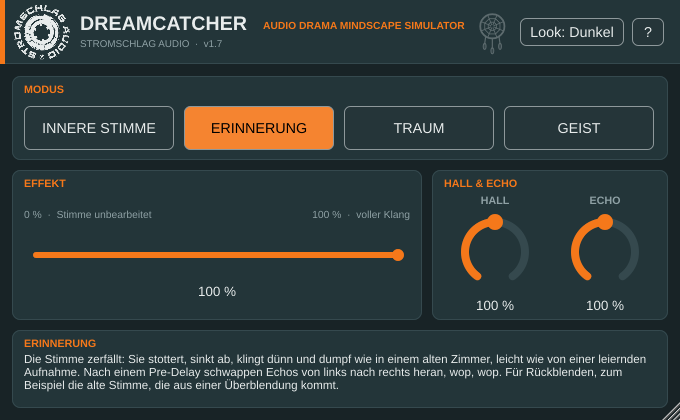
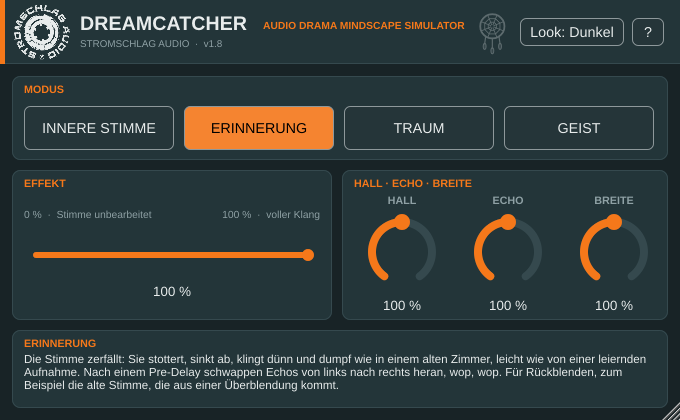
v1.8: dritter Drehregler Breite (Stereobreite 0–200 %)
- 0 % = mono, 100 % = wie der Modus abgestimmt ist, 200 % = doppelte Seite plus
  minimal verzögerte Seite (Prinzip von Airwindows Wider), breiter als die Lautsprecher
- unbearbeitete Stimme am Effekt-Fader bleibt unberührt; Lautheit bei 100 % unverändert
- Oberfläche mit drei Drehreglern, Hilfe, README und Info-Seite aktualisiert

Claude-Session: https://claude.ai/code/session_01N8U6GAcgjakis5mRQaEKjq

diff --git a/docs/index.html b/docs/index.html
@@ -61,7 +61,7 @@
   bis zum vollen Effekt, auch über die Zeit per Automation.</p>
 
   <a class="btn" id="dl" href="https://github.com/StromschlagProductions/Dreamcatcher-vst/releases/latest">⬇ Download (Windows, VST3)</a>
-  <div class="meta" id="ver">Aktuelle Version: <span id="vnum">1.7</span> · Installation: ZIP entpacken, den ganzen Ordner <code>Dreamcatcher.vst3</code> nach <code>C:\Program Files\Common Files\VST3</code> kopieren.</div>
+  <div class="meta" id="ver">Aktuelle Version: <span id="vnum">1.8</span> · Installation: ZIP entpacken, den ganzen Ordner <code>Dreamcatcher.vst3</code> nach <code>C:\Program Files\Common Files\VST3</code> kopieren.</div>
 
   <h2>Was es kann</h2>
   <ul>
@@ -70,7 +70,7 @@
     <li><strong>Traum:</strong> körnig verstimmt, die Tonhöhe wabert langsam, in einem riesigen, dunklen, schwebenden Hall mit einer Echo-Wolke, deren Wiederholungen schief wegdriften.</li>
     <li><strong>Geist:</strong> echter Reverse-Hall: Vor jedem Wort schwillt ein Geisterhall an und rückwärts gespielte Stücke saugen ins Wort hinein, dann kommt die Stimme, trocken und ohne Nachhall. Dafür meldet das Plugin in diesem Modus rund 0,6 s Latenz an die DAW, die sie ausgleicht. Am besten auf einer eigenen Spur oder Instanz.</li>
     <li><strong>Ein Fader von 0 bis 100 %:</strong> 0 % ist die Stimme unbearbeitet, 100 % der volle Klang des Modus. Per Automation lässt sich der Effekt einblenden oder zurückholen, etwa wenn eine alte Stimme aus einer Überblendung kommt.</li>
-    <li><strong>Hall und Echo zum Nachjustieren:</strong> zwei Drehregler von 0 bis 200 %, 100 % ist der abgestimmte Klang des Modus. Im Modus Geist steuern sie Reverse-Hall und Reverse-Echo.</li>
+    <li><strong>Hall, Echo und Breite zum Nachjustieren:</strong> drei Drehregler von 0 bis 200 %, 100 % ist der abgestimmte Klang des Modus. Im Modus Geist steuern die ersten beiden Reverse-Hall und Reverse-Echo. Breite reicht von mono bis breiter als die Lautsprecher.</li>
     <li><strong>Auch auf einem Bus:</strong> Stimme und Geräusche einer Traum- oder Erinnerungsszene bekommen gemeinsam dieselbe Behandlung und klingen wie aus einer Welt.</li>
     <li><strong>Fest abgestimmt:</strong> feste Modi, kein Ausgangsregler, keine eigenen Geräusche. Das Plugin verändert nur den Klang der Stimme; Latenz gibt es nur im Modus Geist.</li>
     <li><strong>Vergrößerbare Oberfläche</strong> von 50 % bis 300 %, hell und dunkel, mit Hilfe im Plugin.</li>

diff --git a/Source/PluginEditor.cpp b/Source/PluginEditor.cpp
@@ -57,7 +57,7 @@ static juce::AttributedString buildHelp (juce::Colour text, juce::Colour accent,
               juce::Font (juce::FontOptions (17.0f, juce::Font::bold)), accent);
 
     body ("Dreamcatcher ist ein Insert-Effekt für Stimmen, die nicht im Raum der Szene sprechen: innere Stimme, Erinnerung und Traum. "
-          "Der Klang jedes Modus ist fest abgestimmt. Bedient wird es mit dem Modus, dem Effekt-Fader und zwei Drehreglern, mit denen du Hall und Echo des Modus anpasst.");
+          "Der Klang jedes Modus ist fest abgestimmt. Bedient wird es mit dem Modus, dem Effekt-Fader und drei Drehreglern, mit denen du Hall, Echo und Stereobreite des Modus anpasst.");
 
     head ("MODUS");
     body ("Innere Stimme: Die Stimme rückt ins Innere des Kopfes. Schmal und nah, ein winziger, enger Raum, ein Hauch Echo, Höhen weicher, Tiefen weg.");
@@ -75,6 +75,12 @@ static juce::AttributedString buildHelp (juce::Colour text, juce::Colour accent,
     body ("Im Modus Geist heißen die Regler Reverse-Hall und Reverse-Echo: Damit wählst du, ob nur der rückwärts anschwellende Hall, nur die "
           "rückwärts gespielten Echos oder beides vor der Stimme liegen.");
     note ("Mehr Hall oder Echo macht den Klang lauter, weniger leiser; der Pegelausgleich gilt für die Einstellung 100 %.");
+
+    head ("BREITE (Drehregler, 0–200 %)");
+    body ("Die Stereobreite des Effekts: 0 % = mono, 100 % = so breit, wie der Modus abgestimmt ist, 200 % = deutlich breiter. Über 100 % wird "
+          "das Seitensignal zusätzlich minimal verzögert (nach dem Prinzip von Airwindows Wider), dann wirkt der Klang breiter als die Lautsprecher. "
+          "Die unbearbeitete Stimme (Effekt-Fader auf 0 %) bleibt davon unberührt.");
+    note ("Sehr breite Einstellungen klingen in Mono dünner. Wenn die Produktion auch in Mono funktionieren muss, kurz in Mono gegenhören.");
 
     head ("EFFEKT (Fader, 0–100 %)");
     body ("0 % = die Stimme unbearbeitet, 100 % = der volle Klang des gewählten Modus. Dazwischen blendet der Fader fließend über. "
@@ -133,6 +139,9 @@ DreamcatcherEditor::DreamcatcherEditor (DreamcatcherProcessor& p) : AudioProcess
 
     setupKnob (hallKnob, "hall");
     setupKnob (echoKnob, "echo");
+    setupKnob (widthKnob, "width");
+    widthKnob.label.setText (u8 ("BREITE"), juce::dontSendNotification);
+    widthKnob.slider.setTooltip (u8 ("Stereobreite: 0 % = mono, 100 % = wie der Modus abgestimmt ist, 200 % = breiter als die Lautsprecher. Doppelklick: 100 %"));
 
     themeButton.onClick = [this]
     {
@@ -241,7 +250,7 @@ void DreamcatcherEditor::applyTheme()
     look.setColour (juce::PopupMenu::highlightedBackgroundColourId, theme.accent);
     look.setColour (juce::PopupMenu::highlightedTextColourId, juce::Colours::black);
     look.setColour (juce::Label::textColourId, theme.text);
-    for (auto* k : { &hallKnob, &echoKnob }) k->label.setColour (juce::Label::textColourId, theme.dim);
+    for (auto* k : { &hallKnob, &echoKnob, &widthKnob }) k->label.setColour (juce::Label::textColourId, theme.dim);
     look.setColour (juce::TextButton::buttonColourId, theme.dark ? theme.panel : theme.bg);
     look.setColour (juce::TextButton::buttonOnColourId, theme.accent);
     look.setColour (juce::TextButton::textColourOffId, theme.text);
@@ -352,13 +361,13 @@ void DreamcatcherEditor::paint (juce::Graphics& g)
     // Karte Modus
     card (12.0f, 76.0f, (float) W - 24.0f, 84.0f, "MODUS");
     // Karte Effekt-Fader
-    card (12.0f, 170.0f, 410.0f, 150.0f, "EFFEKT");
+    card (12.0f, 170.0f, 320.0f, 150.0f, "EFFEKT");
     g.setColour (theme.dim);
     g.setFont (juce::FontOptions (11.5f));
-    g.drawText (u8 ("0 %  ·  Stimme unbearbeitet"), 24, 206, 190, 16, juce::Justification::centredLeft);
-    g.drawText (u8 ("100 %  ·  voller Klang"), 410 - 190, 206, 190, 16, juce::Justification::centredRight);
+    g.drawText (u8 ("0 %  ·  Stimme unbearbeitet"), 24, 206, 160, 16, juce::Justification::centredLeft);
+    g.drawText (u8 ("100 %  ·  voller Klang"), 320 - 130, 206, 130, 16, juce::Justification::centredRight);
     // Karte Hall / Echo
-    card (432.0f, 170.0f, (float) W - 444.0f, 150.0f, m == dch::kGhost ? u8 ("REVERSE") : u8 ("HALL & ECHO"));
+    card (342.0f, 170.0f, (float) W - 354.0f, 150.0f, m == dch::kGhost ? u8 ("REVERSE & BREITE") : u8 ("HALL · ECHO · BREITE"));
     // Karte Beschreibung
     card (12.0f, 330.0f, (float) W - 24.0f, 78.0f, modeShort (m));
     g.setColour (theme.text);
@@ -388,11 +397,16 @@ void DreamcatcherEditor::resized()
     for (int i = 0; i < 4; ++i)
         modeButtons[i].setBounds (bx + i * (bw + 10), 106, bw, 44);
 
-    fader.setBounds (24, 228, 386, 72);
-    hallKnob.label.setBounds (440, 192, 110, 16);
-    echoKnob.label.setBounds (550, 192, 110, 16);
-    hallKnob.slider.setBounds (445, 208, 100, 106);
-    echoKnob.slider.setBounds (555, 208, 100, 106);
+    fader.setBounds (24, 228, 296, 72);
+    {
+        Knob* ks[3] = { &hallKnob, &echoKnob, &widthKnob };
+        for (int i = 0; i < 3; ++i)
+        {
+            const int x = 350 + i * 106;
+            ks[i]->label.setBounds (x, 192, 104, 16);
+            ks[i]->slider.setBounds (x + 2, 208, 100, 106);
+        }
+    }
 
     helpScroll.toFront (false);
 }

diff --git a/Source/DreamcatcherDSP.h b/Source/DreamcatcherDSP.h
@@ -792,6 +792,7 @@ public:
         int n = 1; while ((double) n < 3.4 * sr) n <<= 1;
         echoBuf.assign ((size_t) n, 0.0); echoMask = n - 1; echoPos = 0;
         swell.prepare (sr);
+        sideDelay = std::min (60.0, 0.00045 * sr);   // ca. 0,45 ms wie bei Wider (20 Samples bei 44,1 kHz)
         for (int m = 0; m < kNumModes; ++m) room[m].prepare (sr, kRoom[m]);
         ghostDelay = swell.latency();
         for (auto* r : { &dlL, &dlR, &dryL, &dryR }) r->init (ghostDelay);
@@ -814,6 +815,7 @@ public:
         for (auto* r : { &dlL, &dlR, &dryL, &dryR }) r->clear();
         std::fill (revBuf.begin(), revBuf.end(), 0.0); revPos = 0; revPhase = 0; revLpL = revLpR = 0.0;
         ghostRunning = false;
+        std::fill (sideBuf, sideBuf + 64, 0.0); sidePos = 0;
         for (int m = 0; m < kNumModes; ++m) { room[m].reset(); roomRunning[m] = false; }
     }
     void setMode (int m) { mode = std::max (0, std::min (kNumModes - 1, m)); }
@@ -822,10 +824,10 @@ public:
 
     // dream: 0..1 (0 = unbearbeitete Stimme, 1 = voller Klang)
     // hall, echo: 0..2 (1 = so, wie der Modus abgestimmt ist)
-    void process (float* left, float* right, int n, double dream, double hall = 1.0, double echo = 1.0)
+    void process (float* left, float* right, int n, double dream, double hall = 1.0, double echo = 1.0, double width = 1.0)
     {
         const Voicing& v = kVoicing[mode];
-        if (! started) { amount = dream; hallK = hall; echoK = echo; started = true; }
+        if (! started) { amount = dream; hallK = hall; echoK = echo; widthK = width; started = true; }
         const double ghostTarget = mode == kGhost ? 1.0 : 0.0;
         for (int i = 0; i < n; ++i)
         {
@@ -843,6 +845,7 @@ public:
             amount += (dream - amount) * fader;
             hallK += (hall - hallK) * fader;
             echoK += (echo - echoK) * fader;
+            widthK += (width - widthK) * fader;
             ghostAmt += (ghostTarget - ghostAmt) * smooth;
 
             // Echo-Zeiten gehoeren zum Modus: Echos erst ausblenden, dann Zeiten wechseln (kein Pitch-Rutschen)
@@ -979,7 +982,23 @@ public:
                 l += hl; r += hr;
             }
 
-            // 7. Fader: unbearbeitet <-> voller Effekt
+            // 7. Breite (Mitte/Seite): 0 = mono, 1 = wie abgestimmt, 2 = doppelte Seite plus kurz verzoegerte Seite
+            //    (Prinzip aus Airwindows Wider): wirkt breiter als die Lautsprecher
+            {
+                const double mid = 0.5 * (l + r), side = 0.5 * (l - r);
+                sideBuf[(size_t) (sidePos & 63)] = side;
+                double sd = 0.0;
+                if (widthK > 1.0)
+                {
+                    const int i0 = (int) sideDelay; const double fr = sideDelay - i0;
+                    sd = sideBuf[(size_t) ((sidePos - i0) & 63)] * (1.0 - fr) + sideBuf[(size_t) ((sidePos - i0 - 1) & 63)] * fr;
+                }
+                ++sidePos;
+                const double s2 = side * widthK + (widthK > 1.0 ? (widthK - 1.0) * 0.7 * sd : 0.0);
+                l = mid + s2; r = mid - s2;
+            }
+
+            // 8. Fader: unbearbeitet <-> voller Effekt
             l = safe (outDryL * (1.0 - amount) + l * amount);
             r = safe (outDryR * (1.0 - amount) + r * amount);
             left[i] = (float) l;
@@ -1047,6 +1066,8 @@ private:
     int revMask = 0, revPos = 0, revPhase = 0, revLen = 64;
     double revCoef = 0.3, revLpL = 0.0, revLpR = 0.0;
     // Regler Hall / Echo (geglaettet)
-    double hallK = 1.0, echoK = 1.0;
+    double hallK = 1.0, echoK = 1.0, widthK = 1.0;
+    double sideBuf[64] {}, sideDelay = 20.0;
+    int sidePos = 0;
 };
 }  // namespace dch

diff --git a/Source/PluginProcessor.cpp b/Source/PluginProcessor.cpp
@@ -20,6 +20,8 @@ juce::AudioProcessorValueTreeState::ParameterLayout DreamcatcherProcessor::creat
     // Hall und Echo: 100 % = so, wie der Modus abgestimmt ist; 0 % = weg, 200 % = doppelt (im Modus Geist: Reverse-Hall / Reverse-Echo)
     layout.add (std::make_unique<AudioParameterFloat> (ParameterID { "hall", 1 }, "Hall", NormalisableRange<float> (0.0f, 2.0f), 1.0f, percent));
     layout.add (std::make_unique<AudioParameterFloat> (ParameterID { "echo", 1 }, "Echo", NormalisableRange<float> (0.0f, 2.0f), 1.0f, percent));
+    // Breite: 0 % = mono, 100 % = wie abgestimmt, 200 % = breiter als die Lautsprecher
+    layout.add (std::make_unique<AudioParameterFloat> (ParameterID { "width", 1 }, "Breite", NormalisableRange<float> (0.0f, 2.0f), 1.0f, percent));
     return layout;
 }
 
@@ -33,6 +35,7 @@ DreamcatcherProcessor::DreamcatcherProcessor()
     pDream = apvts.getRawParameterValue ("dream");
     pHall = apvts.getRawParameterValue ("hall");
     pEcho = apvts.getRawParameterValue ("echo");
+    pWidth = apvts.getRawParameterValue ("width");
 }
 
 void DreamcatcherProcessor::prepareToPlay (double sampleRate, int)
@@ -68,7 +71,7 @@ void DreamcatcherProcessor::processBlock (juce::AudioBuffer<float>& buffer, juce
     engine.setMode (juce::roundToInt (pMode->load()));
     float* l = buffer.getWritePointer (0);
     float* r = numCh > 1 ? buffer.getWritePointer (1) : nullptr;
-    engine.process (l, r, numSamples, (double) pDream->load(), (double) pHall->load(), (double) pEcho->load());
+    engine.process (l, r, numSamples, (double) pDream->load(), (double) pHall->load(), (double) pEcho->load(), (double) pWidth->load());
 
     if (engine.latencySamples() != reportedLatency.load())
     {

diff --git a/Source/PluginProcessor.h b/Source/PluginProcessor.h
@@ -44,6 +44,7 @@ private:
     std::atomic<float>* pDream = nullptr;
     std::atomic<float>* pHall = nullptr;
     std::atomic<float>* pEcho = nullptr;
+    std::atomic<float>* pWidth = nullptr;
 
     JUCE_DECLARE_NON_COPYABLE_WITH_LEAK_DETECTOR (DreamcatcherProcessor)
 };

diff --git a/Source/PluginEditor.h b/Source/PluginEditor.h
@@ -79,7 +79,7 @@ private:
     };
     void setupKnob (Knob&, const juce::String& paramId);
     void updateKnobLabels();
-    Knob hallKnob, echoKnob;
+    Knob hallKnob, echoKnob, widthKnob;
 
     juce::TextButton themeButton, helpButton;
     HelpPanel helpScroll;

diff --git a/README.md b/README.md
@@ -7,7 +7,7 @@
 
 VST3-Insert-Effekt für Hörspiel-Produktion. Er lässt eine Stimme klingen, als käme sie nicht aus dem Raum der Szene,
 sondern von innen: als **innere Stimme**, als **Erinnerung / Rückblende**, im **Traum** oder als **Geist** mit echtem Reverse-Hall. Ein Modus-Schalter, ein
-Fader und zwei Drehregler für Hall und Echo, fertig.
+Fader und drei Drehregler für Hall, Echo und Breite, fertig.
 
 **⬇ Download (Windows · VST3 · Stereo):** https://github.com/StromschlagProductions/Dreamcatcher-vst/releases/latest
 
@@ -24,7 +24,7 @@ Echo, Filter und Automation ineinandergreifen. Ich bin dankbar, dass ich diesen 
 manchmal umständlich und mühselig war. Gerade dadurch weiß ich, was ich mir von einem Werkzeug wünsche, das all das in
 einem vereint. DREAMCATCHER soll das Gestalten nicht ersetzen, sondern die technische Umsetzung im Alltag einfacher machen.
 
-Der Klang jedes Modus ist fest abgestimmt; mit Hall und Echo lässt er sich nachjustieren. Es gibt keinen Ausgangsregler, und es werden keine eigenen Geräusche
+Der Klang jedes Modus ist fest abgestimmt; mit Hall, Echo und Breite lässt er sich nachjustieren. Es gibt keinen Ausgangsregler, und es werden keine eigenen Geräusche
 dazugemischt: Das Plugin verändert nur den Klang der Stimme.
 
 – Lars Eickstädt, Stromschlag Audio
@@ -35,7 +35,7 @@ dazugemischt: Das Plugin verändert nur den Klang der Stimme.
 |---|---|
 | ![Erinnerung](docs/oberflaeche-dunkel.png) | ![Traum](docs/oberflaeche-hell.png) |
 
-Oben wählt man den Modus, darunter stehen der **Effekt-Fader** und die Drehregler **Hall** und **Echo**. Der **?**-Knopf öffnet die Hilfe, Look Dunkel/Hell und
+Oben wählt man den Modus, darunter stehen der **Effekt-Fader** und die Drehregler **Hall**, **Echo** und **Breite**. Der **?**-Knopf öffnet die Hilfe, Look Dunkel/Hell und
 die Fenstergröße (50–300 %) werden mit dem Projekt gespeichert. Zu jedem Regler gibt es einen Tooltip.
 
 ## Modi und Regler (beide automatisierbar)
@@ -44,6 +44,7 @@ die Fenstergröße (50–300 %) werden mit dem Projekt gespeichert. Zu jedem Reg
 |---|---|
 | **Modus** | **Innere Stimme:** Die Stimme rückt ins Innere des Kopfes: schmal, nah, ein winziger, enger Raum und ein Hauch Echo, Höhen weicher, Tiefen weg. **Erinnerung:** Die Stimme stottert, sinkt ab, klingt dünn und dumpf in einem kleinen, alten Zimmer, leicht wie von einer leiernden Aufnahme; nach einem Pre-Delay schwappen Ping-Pong-Echos von links nach rechts heran und schwellen an (wop, wop), für Rückblenden. **Traum:** körnig verstimmt, die Tonhöhe wabert langsam, in einem riesigen, dunklen, schwebenden Hall mit einer Echo-Wolke, deren Wiederholungen schief wegdriften. **Geist:** echter Reverse-Hall, vor jedem Wort schwillt ein Geisterhall an und rückwärts gespielte Stücke saugen ins Wort hinein, dann kommt die Stimme, trocken und ohne Nachhall (meldet rund 0,6 s Latenz). Beim Wechsel blendet das Plugin in etwa einer zehntel Sekunde über. |
 | **Effekt** | 0 % = die Stimme unbearbeitet, 100 % = der volle Klang des Modus, dazwischen fließend (Standard: 100 %). Doppelklick setzt auf 100 % zurück. |
+| **Breite** | Drehregler 0–200 %: 0 % = mono, 100 % = so breit, wie der Modus abgestimmt ist, 200 % = deutlich breiter; über 100 % wird das Seitensignal zusätzlich minimal verzögert (Prinzip von Airwindows Wider), dann wirkt es breiter als die Lautsprecher. Sehr breit klingt in Mono dünner. |
 | **Hall** / **Echo** | Drehregler 0–200 %: 100 % = so, wie der Modus abgestimmt ist, 0 % = aus, 200 % = doppelt so viel. Im Modus Geist heißen sie **Reverse-Hall** und **Reverse-Echo**: so wählst du nur den rückwärts anschwellenden Hall, nur die rückwärts gespielten Echos oder beides. Doppelklick setzt auf 100 % zurück. |
 
 Das ist wie bei LOCATIONS: Ein Fader bewegt die Stimme zwischen zwei Zuständen. Hier sind es die normal klingende
@@ -84,6 +85,7 @@ Stimme und der Traum. Einen extra Ein-/Ausschalter gibt es nicht, 0 % ist aus.
 Die Versionsnummer steht in der Datei `VERSION`, im Plugin-Kopf und im Namen der Release. Sie wird bei jeder
 Änderung hochgezählt.
 
+- **1.8** – Dritter Drehregler **Breite** (Stereobreite 0–200 %, über 100 % breiter als die Lautsprecher nach dem Prinzip von Airwindows Wider).
 - **1.7** – Erinnerung mit stärkerem Bandleiern; Traum mit stärkerem Wabern, breiter und mit größerem, stärker schwebendem Hall. Pegelausgleich jetzt nach gehörrichtiger Lautheit (LU) an einem stimmähnlichen Signal gemessen.
 - **1.6** – Erinnerung und Traum deutlich zurückgenommen (Echos, Hall, Echo-Wolke, Stottern und Verstimmung etwa halbiert, Pegel neu abgeglichen), damit die Stimme verständlich bleibt. Geist: der Vorwärts-Hall hinter der Stimme ist wieder weg, die Stimme bleibt trocken. Erinnerung mit leichtem Bandleiern (Airwindows Flutter), Traum mit langsam wabernder Tonhöhe (Airwindows GalacticVibe) und Echos, die schief wegdriften, damit sich Traum deutlicher von Erinnerung abhebt.
 - **1.5** – Drehregler Hall und Echo (0–200 %, 100 % = Preset); im Modus Geist zusätzlich Reverse-Echo, die Regler heißen dort Reverse-Hall und Reverse-Echo. Neuer Untertitel „Audio Drama Mindscape Simulator“, mehr Luft um das Traumfänger-Symbol.
